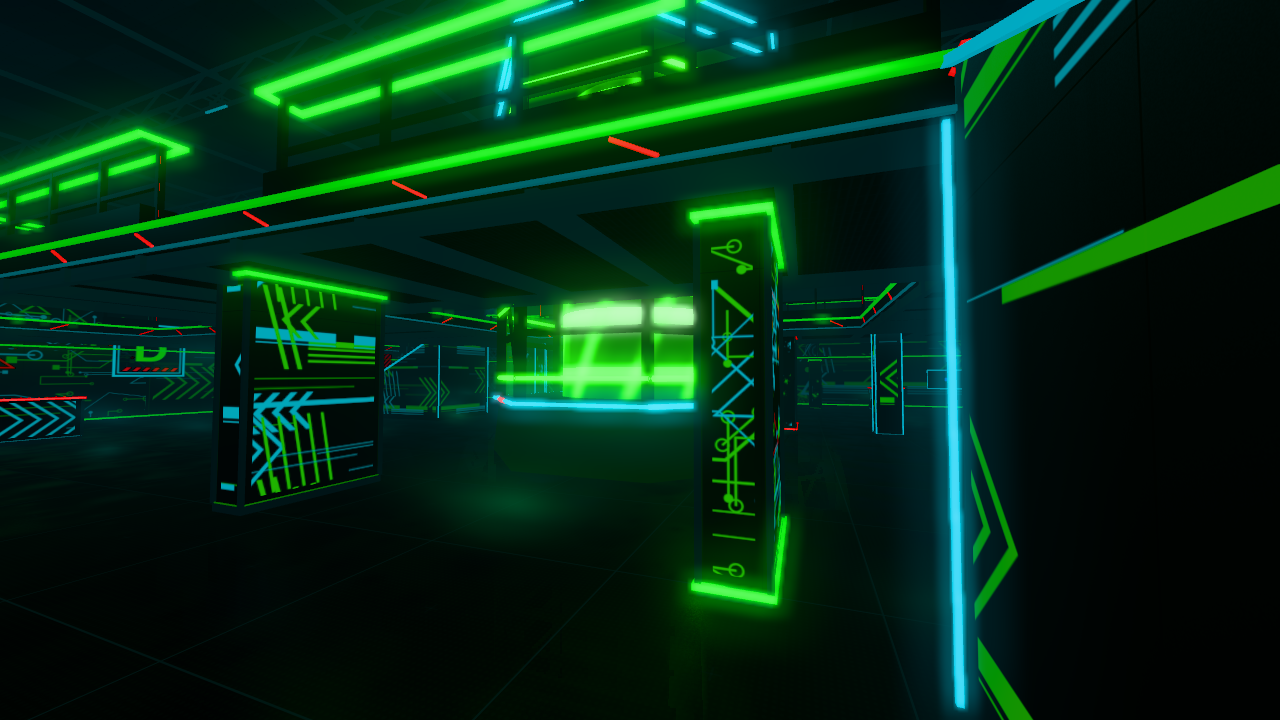
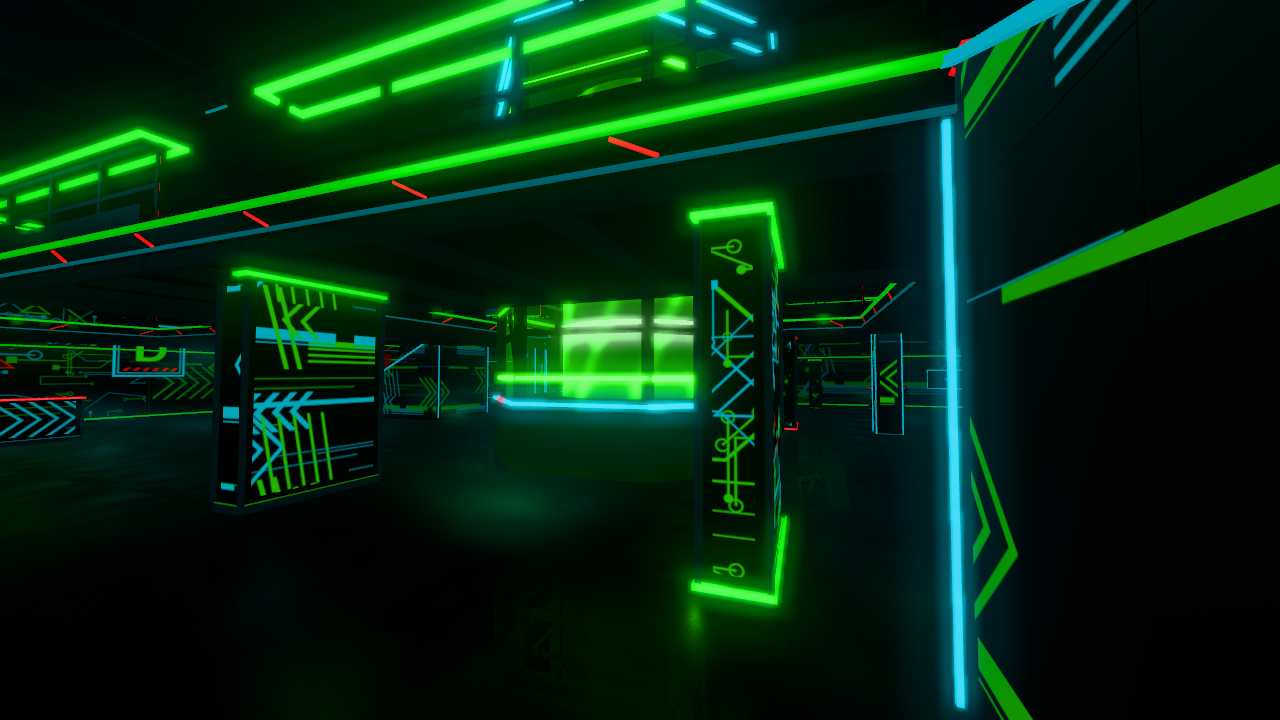
Ocena iter11: Neon Hive 12/12 (nowy układ), Reactor 10/12; final i raport zaktualizowane
Claude-Session: https://claude.ai/code/session_01AdB8daVQnwQrsSBW7UALhG

diff --git a/docs/REPORT-FINAL.md b/docs/REPORT-FINAL.md
@@ -28,12 +28,16 @@ W repo **nie było `docs/SPEC.md` ani `reference/ref1–4.png`**.
 | Mapa | Iteracje (wynik recenzenta) | Ostatnie zrzuty |
 |---|---|---|
 | UV Maze | 4/12 → 4/12 → **12/12** | `screenshots/review3/`, `screenshots/iter6/` |
-| Neon Hive | 9 → 10 → 10 → 9 → 9/12 (runda dodatkowa iter9) | `screenshots/iter9/` |
-| Reactor | 7 → 9 → 10 → 10 → **11/12** (runda dodatkowa iter9) | `screenshots/iter9/` |
+| Neon Hive | 9 → 10 → 10 → 9 → 9 → 9 → **12/12** (iter11: nowy układ plastra miodu + przycinanie listew) | `screenshots/iter11/` |
+| Reactor | 7 → 9 → 10 → 10 → 11 → 10 → 10/12 (iter11; oceny oscylują 10–11) | `screenshots/iter11/` |
 
-Finalne zrzuty wszystkich map na Ultra: `screenshots/final/` (UV Maze z iter6, Neon Hive i Reactor z iter9).
+Finalne zrzuty wszystkich map na Ultra: `screenshots/final/` (UV Maze z iter6, Neon Hive i Reactor z iter11).
 
-**Runda dodatkowa (iter9, na prośbę użytkownika):**
+**Rundy dodatkowe iter10–iter11 (na prośbę użytkownika):**
+- **Neon Hive: nowy układ.** Pełne heksy flat-top stykają się bokami, mają wspólne ściany z przejściami, komorę centralną R6 z heks-filarem i heksagonalne osłony. Do tego render: przycinanie listew wewnątrz sąsiednich brył, ramy przejść i słabsza łuna. Wynik **12/12**.
+- **Reactor: 10/12.** NIE: podłoga i artefakty. Mora na kracie galerii i odbicia oceniane raz jako za mocne, raz jako za słabe. Kolejni recenzenci dają 10–11/12.
+
+**Runda dodatkowa (iter9):**
 - Reactor 11/12. Jedyne NIE to podłoga (za mało połysku); uwagi: przepalony środek rdzenia, jasna mgła pod sufitem w overview.
 - Neon Hive 9/12. NIE: halo lamp jako twarde „grzyby”, heksy czytelne z dekoru, a nie z architektury, dwa kleksy na podłodze.
 - Czytelność heksów to problem bryły (komory w danych mapy wyglądają z poziomu oka jak boksy). Wymaga przeprojektowania ścian w `maps/neonhive.js`, a nie samego renderu.
